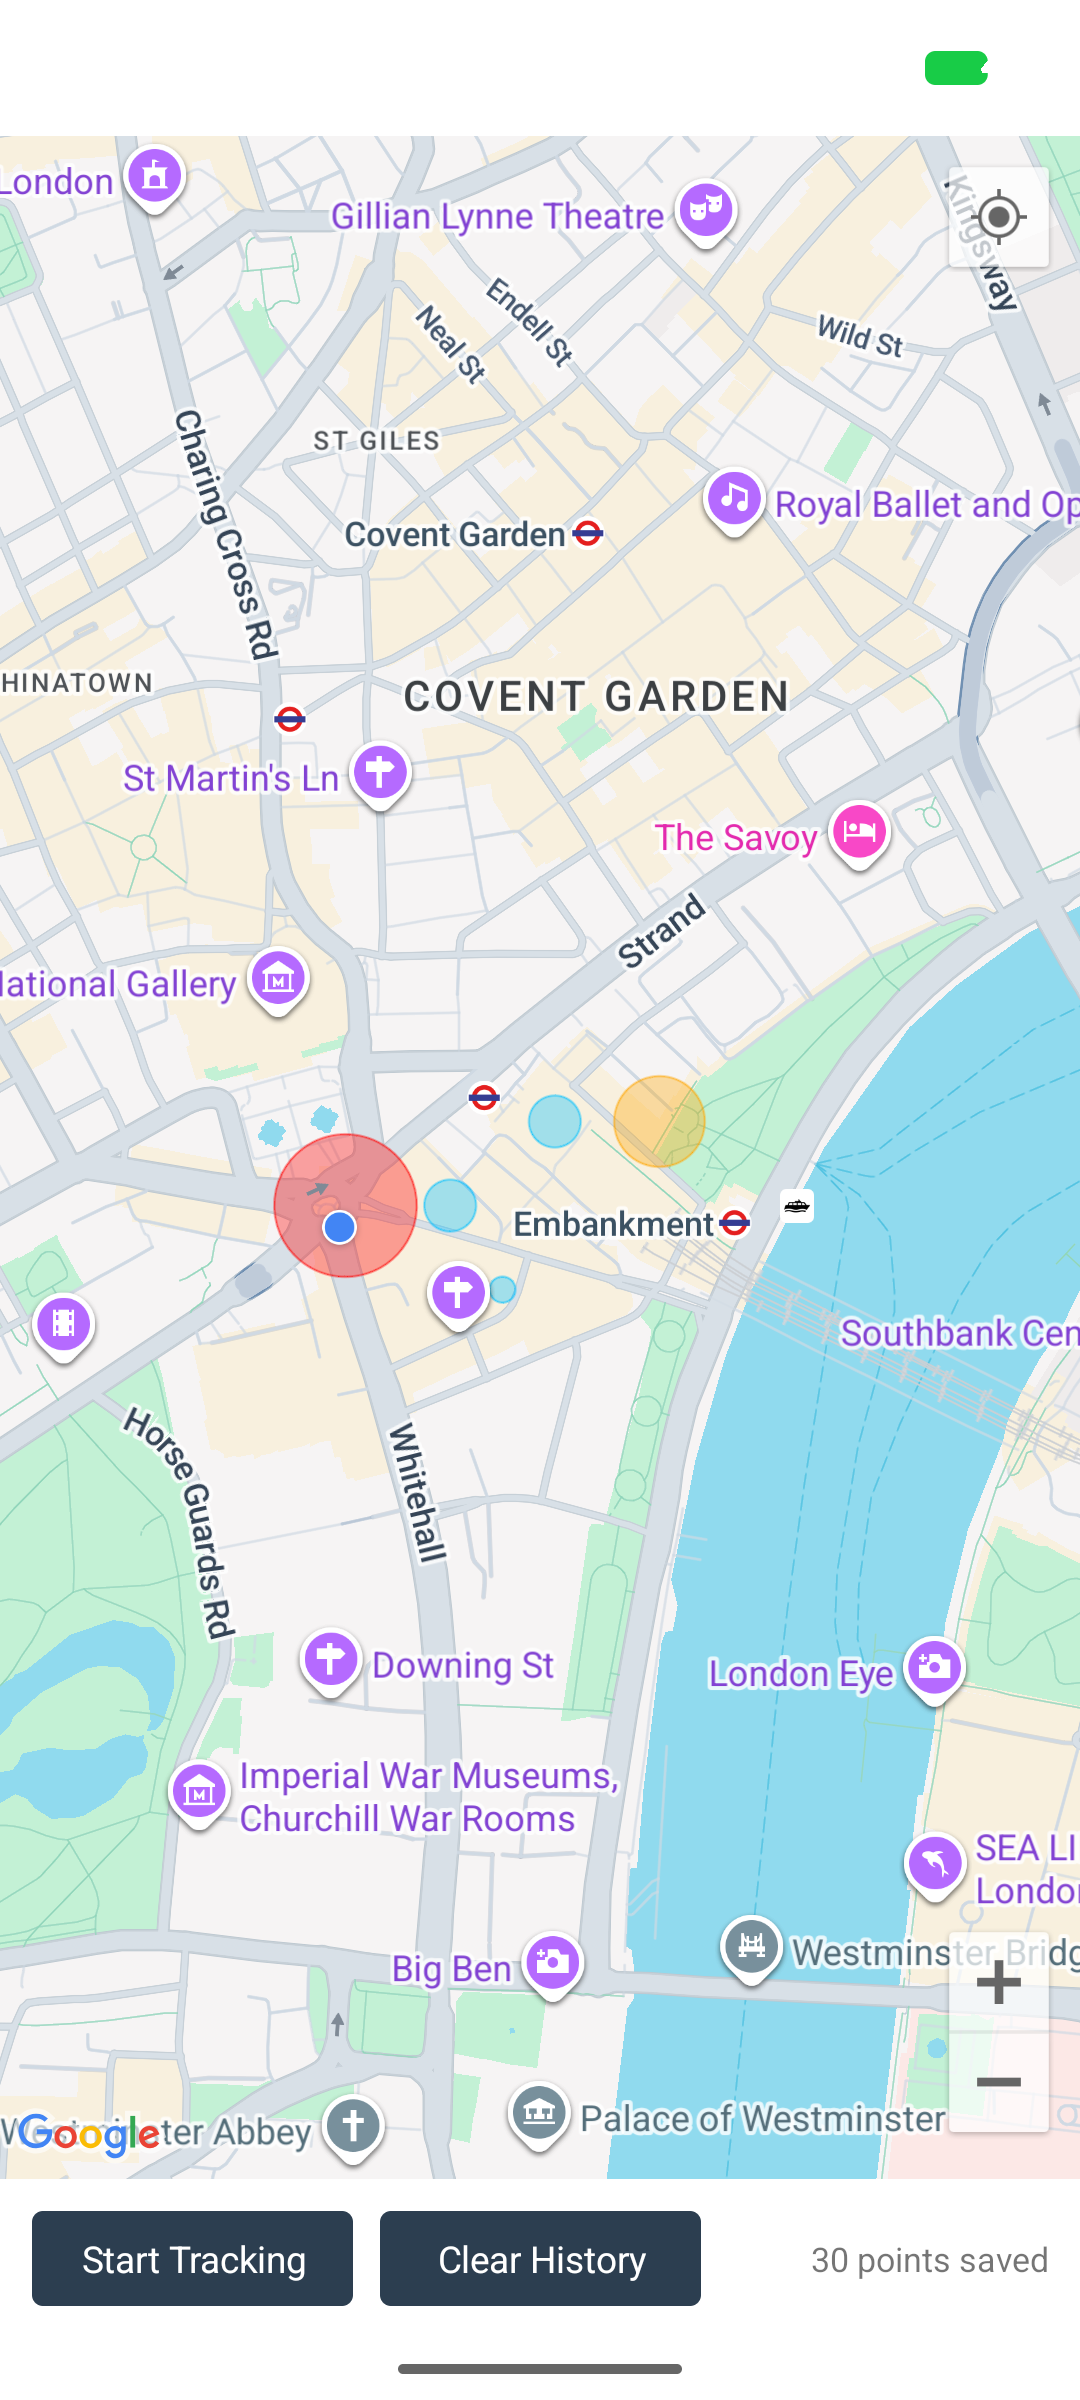
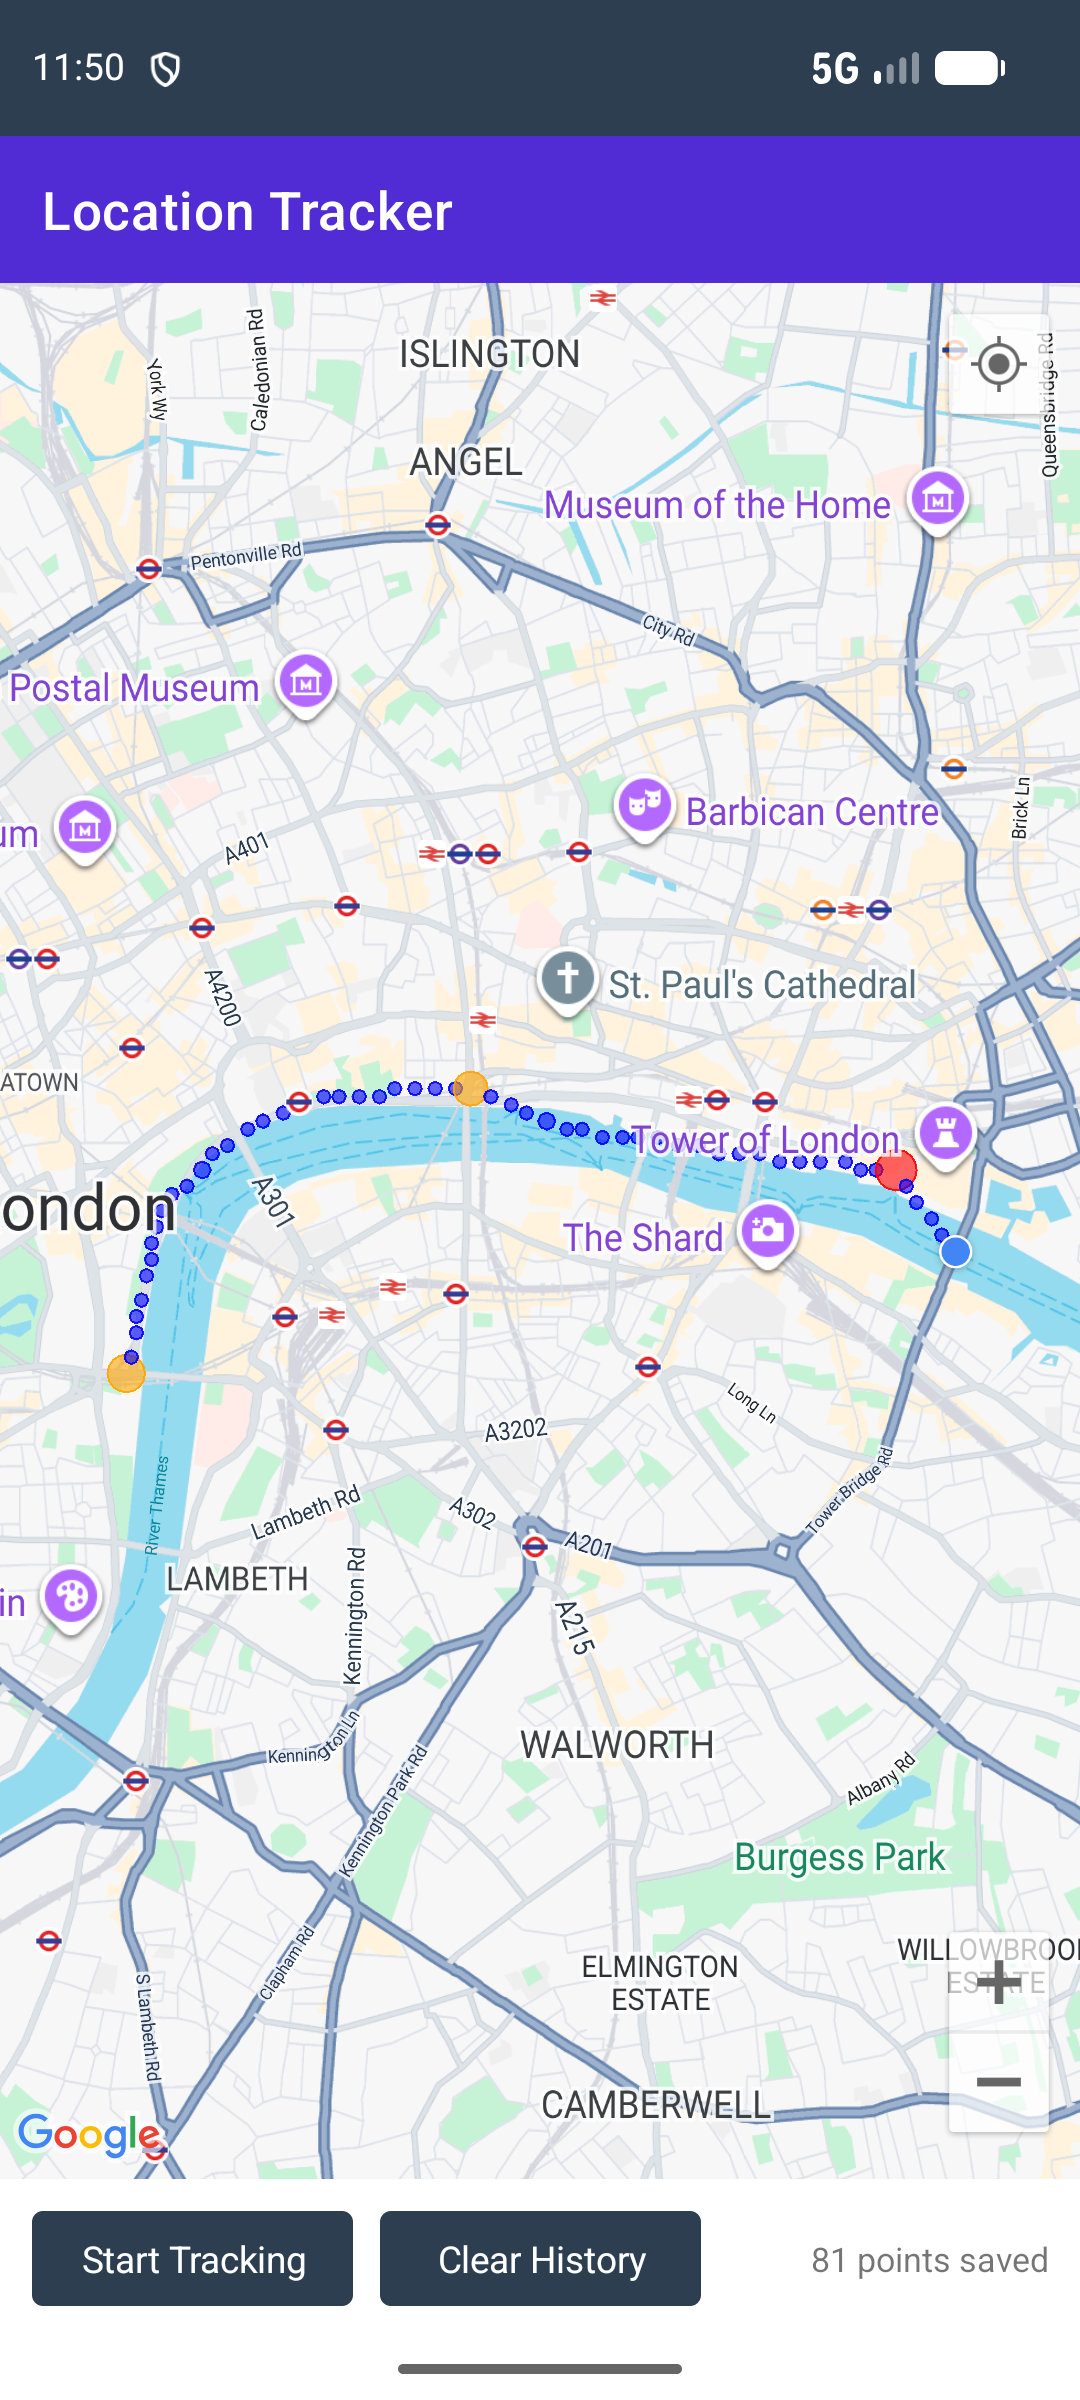
Draw tracked route as a heat map trail with a title bar
- Host MainPage in a NavigationPage so the app has a colored title bar
- Use a ~33 m grid and smaller dots so a route renders as a dotted trail
- Add a five-step color scale (blue to red) and zoom the map to fit the route
- Sample GPS every 5 seconds for a smoother trail
- Replace screenshots with a walk along the Thames and update the README

diff --git a/LocationTrackerMAUI/Services/HeatMapRenderer.cs b/LocationTrackerMAUI/Services/HeatMapRenderer.cs
@@ -24,17 +24,18 @@ namespace LocationTrackerMAUI.Services;
 public static class HeatMapRenderer
 {
     /// <summary>
-    /// Grid resolution in degrees. ~0.0007 degrees of latitude is roughly
-    /// 75 meters, which groups readings from the same stop/area together
-    /// without merging an entire city block into one cell.
+    /// Grid resolution in degrees. ~0.0003 degrees of latitude is roughly
+    /// 33 meters: small enough that a walk or drive is drawn as a trail of
+    /// separate dots, while repeated readings at the same stop still merge
+    /// into one cell and "heat up".
     /// </summary>
-    private const double GridResolutionDegrees = 0.0007;
+    private const double GridResolutionDegrees = 0.0003;
 
     /// <summary>Base radius, in meters, for a cell visited only once.</summary>
-    private const double BaseRadiusMeters = 12;
+    private const double BaseRadiusMeters = 28;
 
     /// <summary>Extra radius, in meters, added per additional visit (capped).</summary>
-    private const double RadiusPerVisitMeters = 6;
+    private const double RadiusPerVisitMeters = 7;
 
     private const int MaxVisitsForScaling = 10;
 
@@ -93,9 +94,9 @@ public static class HeatMapRenderer
         {
             Center = new Location(cell.Latitude, cell.Longitude),
             Radius = Distance.FromMeters(radius),
-            StrokeColor = color,
-            StrokeWidth = 1,
-            FillColor = color.WithAlpha(0.35f)
+            StrokeColor = color.WithAlpha(0.9f),
+            StrokeWidth = 2,
+            FillColor = color.WithAlpha(0.6f)
         };
     }
 
@@ -112,10 +113,38 @@ public static class HeatMapRenderer
 
         return intensity switch
         {
-            < 0.25 => Colors.DeepSkyBlue,
-            < 0.5 => Colors.LimeGreen,
-            < 0.75 => Colors.Orange,
+            < 0.15 => Colors.Blue,
+            < 0.4 => Colors.DeepSkyBlue,
+            < 0.6 => Colors.LimeGreen,
+            < 0.8 => Colors.Orange,
             _ => Colors.Red
         };
+    }
+
+    /// <summary>
+    /// Builds a map region that fits every saved point (plus a small margin),
+    /// so the whole tracked route is visible at once. Returns null when there
+    /// are no points.
+    /// </summary>
+    public static MapSpan? GetRegionForPoints(IReadOnlyCollection<LocationPoint> points)
+    {
+        if (points.Count == 0)
+        {
+            return null;
+        }
+
+        var minLatitude = points.Min(point => point.Latitude);
+        var maxLatitude = points.Max(point => point.Latitude);
+        var minLongitude = points.Min(point => point.Longitude);
+        var maxLongitude = points.Max(point => point.Longitude);
+
+        var center = new Location((minLatitude + maxLatitude) / 2, (minLongitude + maxLongitude) / 2);
+
+        // 30% padding on each axis; never zoom in closer than ~1 km across.
+        const double MinimumSpanDegrees = 0.01;
+        var latitudeSpan = Math.Max((maxLatitude - minLatitude) * 1.3, MinimumSpanDegrees);
+        var longitudeSpan = Math.Max((maxLongitude - minLongitude) * 1.3, MinimumSpanDegrees);
+
+        return new MapSpan(center, latitudeSpan, longitudeSpan);
     }
 }

diff --git a/LocationTrackerMAUI/MainPage.xaml.cs b/LocationTrackerMAUI/MainPage.xaml.cs
@@ -1,6 +1,5 @@
 using LocationTrackerMAUI.Models;
 using LocationTrackerMAUI.Services;
-using Microsoft.Maui.Maps;
 
 namespace LocationTrackerMAUI;
 
@@ -43,10 +42,7 @@ public partial class MainPage : ContentPage
         RedrawHeatMap();
         UpdateStatusLabel();
 
-        if (_trackedPoints.Count > 0)
-        {
-            CenterMapOn(_trackedPoints[^1]);
-        }
+        FitMapToRoute();
     }
 
     /// <summary>
@@ -114,7 +110,7 @@ public partial class MainPage : ContentPage
         {
             RedrawHeatMap();
             UpdateStatusLabel();
-            CenterMapOn(e.Point);
+            FitMapToRoute();
         });
     }
 
@@ -122,9 +118,15 @@ public partial class MainPage : ContentPage
 
     private void UpdateStatusLabel() => StatusLabel.Text = $"{_trackedPoints.Count} points saved";
 
-    private void CenterMapOn(LocationPoint point)
+    /// <summary>
+    /// Zooms and pans the map so the whole tracked route is visible.
+    /// </summary>
+    private void FitMapToRoute()
     {
-        var center = new Location(point.Latitude, point.Longitude);
-        LocationMap.MoveToRegion(MapSpan.FromCenterAndRadius(center, Distance.FromMeters(500)));
+        var region = HeatMapRenderer.GetRegionForPoints(_trackedPoints);
+        if (region is not null)
+        {
+            LocationMap.MoveToRegion(region);
+        }
     }
 }

diff --git a/LocationTrackerMAUI/App.xaml.cs b/LocationTrackerMAUI/App.xaml.cs
@@ -15,9 +15,20 @@ public partial class App : Application
         _serviceProvider = serviceProvider;
     }
 
+    /// <summary>
+    /// Hosts MainPage inside a NavigationPage so the app gets a colored
+    /// title bar at the top, matching the target layout.
+    /// </summary>
     protected override Window CreateWindow(IActivationState? activationState)
     {
         var mainPage = _serviceProvider.GetRequiredService<MainPage>();
-        return new Window(mainPage);
+
+        var navigationPage = new NavigationPage(mainPage)
+        {
+            BarBackgroundColor = Color.FromArgb("#512BD4"),
+            BarTextColor = Colors.White
+        };
+
+        return new Window(navigationPage);
     }
 }

diff --git a/LocationTrackerMAUI/Services/LocationTrackingService.cs b/LocationTrackerMAUI/Services/LocationTrackingService.cs
@@ -20,8 +20,11 @@ public class LocationCapturedEventArgs : EventArgs
 /// </summary>
 public class LocationTrackingService
 {
-    /// <summary>How often a new GPS fix is requested while tracking.</summary>
-    private static readonly TimeSpan PollingInterval = TimeSpan.FromSeconds(15);
+    /// <summary>
+    /// How often a new GPS fix is requested while tracking. 5 seconds gives
+    /// a smooth trail at walking or driving speed.
+    /// </summary>
+    private static readonly TimeSpan PollingInterval = TimeSpan.FromSeconds(5);
 
     private IDispatcherTimer? _timer;
     private bool _isTracking;

diff --git a/README.md b/README.md
@@ -10,7 +10,9 @@ visualizes the recorded path as a **heat map** drawn on top of the
 
 <img src="Screenshots/heatmap_output.png" alt="Heat map of tracked locations over central London" width="320" />
 
-Red = most visited, orange = moderately visited, blue = passed through once.
+A simulated walk along the Thames from Westminster to Tower Bridge. Blue dots
+trace the path walked; spots where the user stopped heat up through green and
+orange to red.
 
 ## How it works
 
@@ -19,7 +21,7 @@ Red = most visited, orange = moderately visited, blue = passed through once.
 | Model | `Models/LocationPoint.cs` | One saved GPS reading (SQLite row). |
 | Model | `Models/HeatMapCell.cs` | One grid cell + visit count used to render the heat map. |
 | Data | `Services/DatabaseService.cs` | SQLite (via `sqlite-net-pcl`) CRUD for saved points. |
-| Tracking | `Services/LocationTrackingService.cs` | Requests location permission and polls `Geolocation.Default.GetLocationAsync` every 15 seconds. |
+| Tracking | `Services/LocationTrackingService.cs` | Requests location permission and polls `Geolocation.Default.GetLocationAsync` every 5 seconds. |
 | Rendering | `Services/HeatMapRenderer.cs` | **Extends** the Maps control: buckets points onto a lat/lon grid and draws one semi-transparent, color/size-scaled `Circle` per grid cell — producing the heat map effect. |
 | UI | `MainPage.xaml` / `MainPage.xaml.cs` | Map view + Start/Stop/Clear controls, wires the services together. |
 | Bootstrap | `MauiProgram.cs`, `App.xaml.cs` | Dependency injection setup (`DatabaseService`, `LocationTrackingService`, `MainPage` are all singletons). |
@@ -29,11 +31,12 @@ Red = most visited, orange = moderately visited, blue = passed through once.
 `Microsoft.Maui.Controls.Maps` has no built-in heat map layer, so one is
 built on top of it:
 
-1. Every saved GPS point is snapped onto a ~75-meter grid.
+1. Every saved GPS point is snapped onto a ~33-meter grid, so a route is
+   drawn as a trail of dots.
 2. Points are grouped by grid cell, and the number of points per cell is its
    "heat" (visit count).
 3. One `Circle` map element is drawn per cell. Both its **radius** and its
-   **color** (blue → green → orange → red) scale with the visit count, so
+   **color** (blue → light blue → green → orange → red) scale with the visit count, so
    areas the user passed through once look different from areas they
    lingered in or passed through repeatedly.
 
